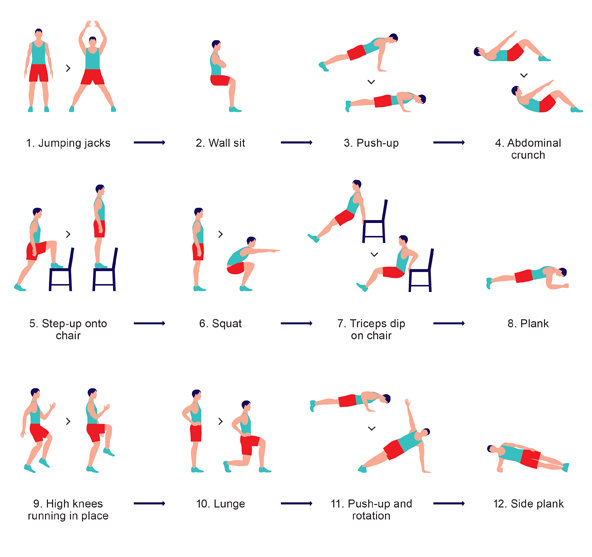
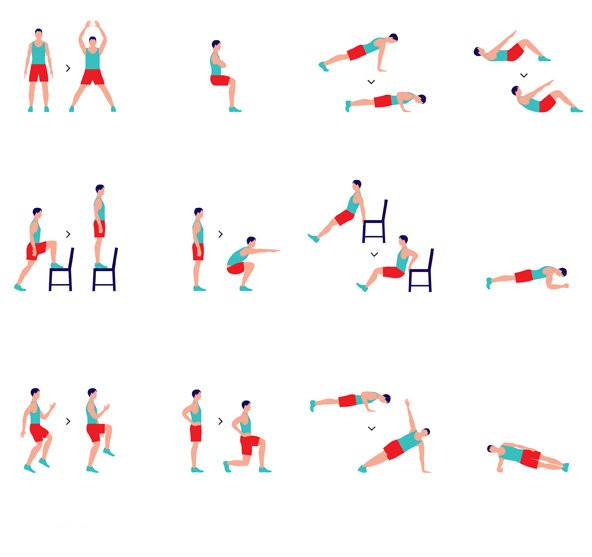
Add sound at end of steps. Try to enhance the picture

diff --git a/web/tpl/layout.twig.html b/web/tpl/layout.twig.html
@@ -16,7 +16,7 @@
 	{% endblock stylesheets %}
 	{% block properties %}
 	<link rel="start" href="{{ app.url }}" title="Accueil" />
-	<link rel="help" href="politique-accessibilite.html" title="Accessibilité" />
+	<link rel="help" href="politique-accessibilite.html" title="AccessibilitÃ©" />
 	<link rel="accesskeys" href="politique-accessibilite.html#accesskeys" title="Raccourcis et Accesskeys" />
 	<link rel="shortcut icon" href="{{IMG_PATH}}/favicon.ico" type="image/ico" />
 	{% endblock properties %}
@@ -37,8 +37,12 @@
 {% block content %}
 <aside id="configuration">
 	<h2>Configuration</h2>
-	<label for="workTime">Working time</label> <input type="number" name="workTime" id="workTime" value="30" size="5" maxlength="5" /><br />
-	<label for="restTime">Rest time</label> <input type="number" name="restTime" id="restTime" value="10" size="5" maxlength="5" /><br />
+	<label for="workTime">Durée d'un exercice</label> <input type="number" name="workTime" id="workTime" value="30" size="5" maxlength="5" /> s<br />
+	<label for="restTime">Durée du repos</label> <input type="number" name="restTime" id="restTime" value="10" size="5" maxlength="5" /> s<br />
+	<label>
+		<input type="checkbox" name="soundEnabled" id="soundEnabled" value="1" checked="checked" />
+		Activer le son
+	</label><br />
 </aside>
 <article role="main-content">
 	<h2>Coach</h2>
@@ -47,7 +51,7 @@
 	<span id="countdown">10</span>
 	<span id="action">Repos</span>
 	<figure id="steps">
-		<a href="{{IMG_PATH}}/fitness_12-exercices_30s-par-exercice_10s-entre-2.jpg" id="actions">Illustration de 12 exercices de Fitness : 30s par exercice, 10s de pause entre 2</a>
+		<a href="{{IMG_PATH}}/fitness-sprites.jpg" id="actions">Illustration de 12 exercices de Fitness : 30s par exercice, 10s de pause entre 2</a>
 	</figure>
 </article>
 {% endblock content %}
@@ -56,13 +60,13 @@
 <footer id="footer" role="footer">
 {% block footer %}
 <p>
-	© 2014 - {{ app.name }}<br />
-	Tous droits réservés
+	{{ app.name }} - Open source LGPL3.0<br />
 </p>
 {% endblock footer %}
 </footer>
 
 {% block javascripts %}
+<audio src="{{SOUND_PATH}}/black.ogg" id="bipHandler" preload></audio>
 <script type="text/javascript" src="{{JS_PATH}}/sporting.js"></script>
 {% endblock %}
 </body>

diff --git a/web/js/sporting.js b/web/js/sporting.js
@@ -4,11 +4,12 @@ var isWork = true;
 var count;
 var countY;
 var params = {
-		'width': 592,
-		'height': 557,
+		'width': 560,
+		'height': 420,
 		'xNumber': 4,
 		'yNumber': 3,
 		'number': 12,
+		'actions': ['Jumping jacks', 'Wall sit', 'Push-up', 'Abdominal crunch', 'Step-up onto chair', 'Squat', 'Triceps dip on chair', 'Plank', 'High knees running in place', 'Lunge', 'Push-up and rotation', 'Side plank'],
 };
 
 function getStyle(elem, cssprop, cssprop2){
@@ -58,14 +59,19 @@ function timer() {
 			timeLeft = document.getElementById('workTime').value;
 			timeLeft++;
 		}
+		
+		if (document.getElementById('soundEnabled').checked) {
+			document.getElementById('bipHandler').play();
+		}
+		document.getElementById('action').innerHTML = (isWork ? (count+1)+' - '+params.actions[count] : 'Repos');
+		document.getElementById('actions').style.width=(params.width/params.xNumber)+'px';
+		console.log('-'+((count%params.xNumber)*(params.width/params.xNumber))+'px -'+(countY*(params.height/params.yNumber))+'px');
+		document.getElementById('actions').style.height=(params.height/params.yNumber)+'px';
+		document.getElementById('actions').style.backgroundPosition='-'+((count%params.xNumber)*(params.width/params.xNumber))+'px -'+(countY*(params.height/params.yNumber))+'px';
 	}
 	
 	timeLeft -= 1;
 	document.getElementById('countdown').innerHTML = timeLeft;
-	document.getElementById('action').innerHTML = (isWork ? 'Go étape '+(count+1) : 'Repos');
-	document.getElementById('actions').style.width=(params.width/params.xNumber)+'px';
-	document.getElementById('actions').style.height=(params.height/params.yNumber)+'px';
-	document.getElementById('actions').style.backgroundPosition='-'+((count%params.xNumber)*(params.width/params.xNumber))+'px -'+(countY*(params.height/params.yNumber))+'px';
 }
 
 function showConfiguration() {

diff --git a/src/Controller/MainController.php b/src/Controller/MainController.php
@@ -61,6 +61,7 @@ class MainController
 			'JS_PATH' => JS_PATH,
 			'CSS_PATH' => CSS_PATH,
 			'IMG_PATH' => IMG_PATH,
+			'SOUND_PATH' => SOUND_PATH,
 			'app' => $app,
 			'page' => $this->response->getPage(),
 			'flash' => $this->response->getFlash()
